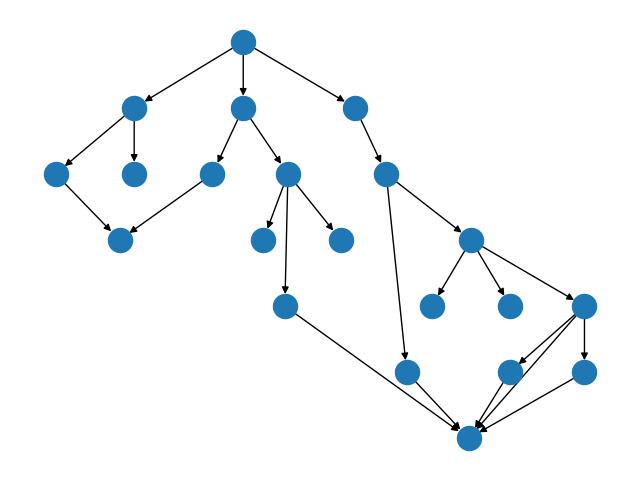
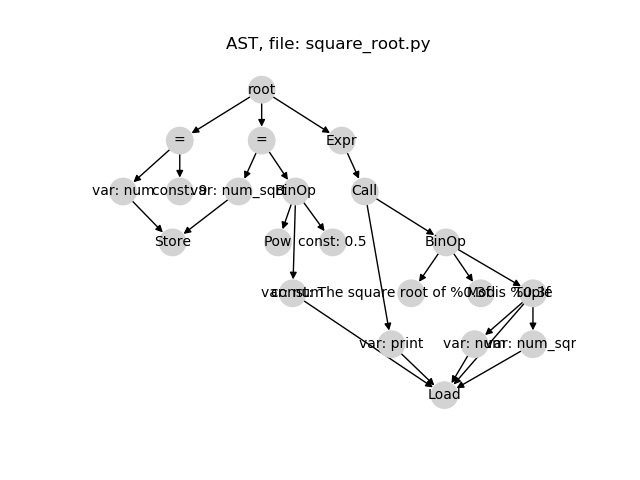
Simplification of constant and variable in graph

diff --git a/main/main.py b/main/main.py
@@ -7,8 +7,22 @@ from networkx.drawing.nx_agraph import graphviz_layout
 
 
 def node_str_generator(node):
-    print("dd")
-    return type(node).__name__ + str(node)
+    if isinstance(node, ast.Module):
+        return "root" + str(node)
+    elif isinstance(node, ast.Assign):
+        return "=" + str(node)
+    elif isinstance(node, ast.Name):
+        # node = ast.Name(node)
+        attributes = node.__dict__
+        ident = attributes['id']
+        return "var: " + ident + str(node)
+    elif isinstance(node, ast.Constant):
+        attributes = node.__dict__
+        value = attributes['value']
+        return "const: " + str(value) + str(node)
+    else:
+        print("dd")
+        return type(node).__name__ + str(node)
 
 
 # Traverse over tree and add every new node to the list and extend edge list with every
@@ -44,7 +58,7 @@ for index, file in enumerate(files):
     print(index, file, os.path.getsize(root + file))
 
 # TODO: file index user input
-file_in_use = files[0]
+file_in_use = files[1]
 # File which is later read
 file = os.open(root + file_in_use, os.O_RDONLY)
 num_bytes = os.path.getsize(root + file_in_use)
